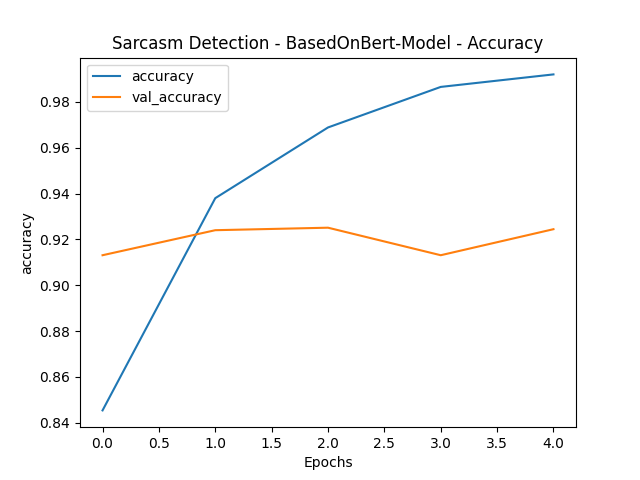
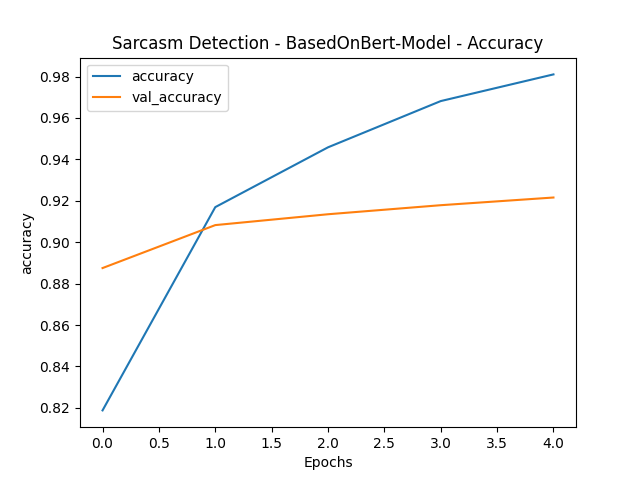
all pngs

diff --git a/src/train_model/train_pretrained_bert_model.py b/src/train_model/train_pretrained_bert_model.py
@@ -107,7 +107,7 @@ def train_pretrained_model(_data):
     # define the early stopping callback
     es = tf.keras.callbacks.EarlyStopping(monitor='val_loss', patience=3, restore_best_weights=True)
     # train the model
-    history = model.fit([train_features_ids, train_features_masks], y_train, validation_split=0.2, epochs=10, batch_size=50, callbacks=[es], shuffle=True, verbose=1)
+    history = model.fit([train_features_ids, train_features_masks], y_train, validation_split=0.2, epochs=10, batch_size=200, callbacks=[es], shuffle=True, verbose=1)
 
     # evaluate the model
     # print the accuracy on the test set
